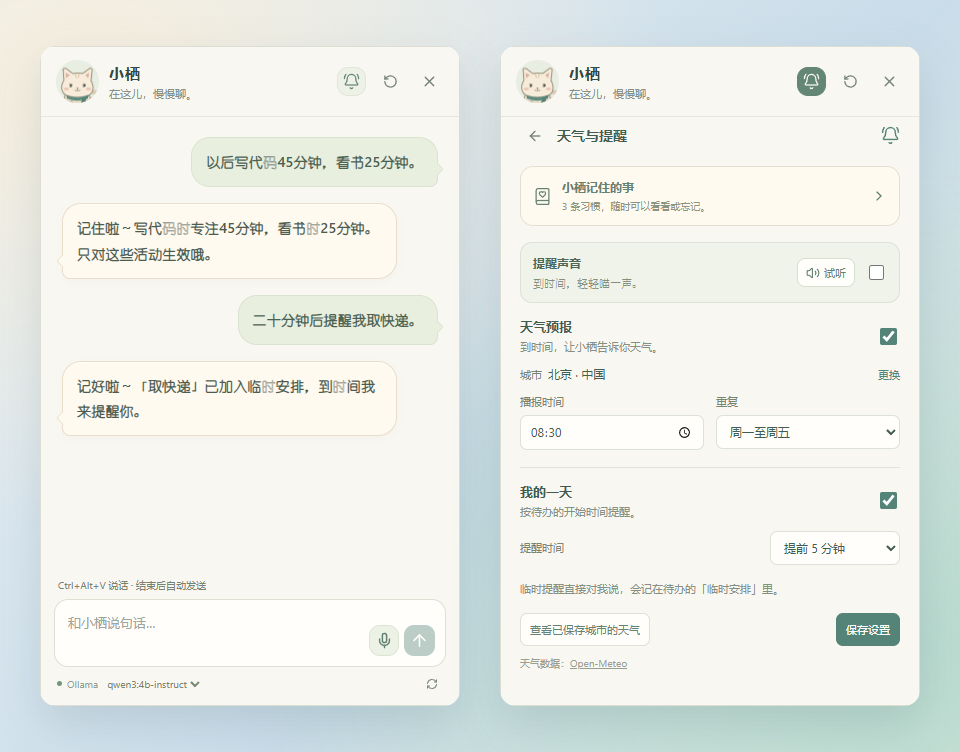
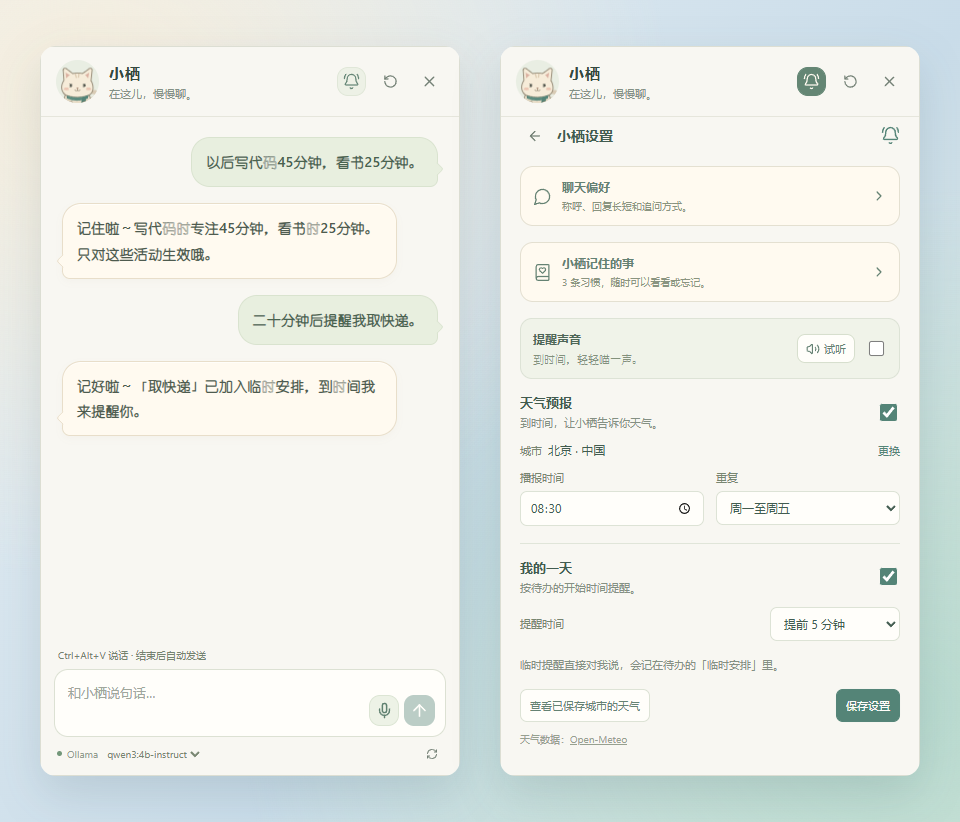
feat: add chat preference settings and release v1.1.1

diff --git a/desktop-pet/chat-preferences.tsx b/desktop-pet/chat-preferences.tsx
@@ -1,0 +1,46 @@
+import { useState } from 'react'
+import { ArrowLeft, ChevronRight, MessageCircle } from 'lucide-react'
+import type { ChatPreferences } from './types'
+
+const defaults: ChatPreferences = { preferredName: null, replyLength: 'normal', followUp: 'natural' }
+
+export function ChatPreferencePanel({ preferences = defaults, onBack }: { preferences?: ChatPreferences; onBack: () => void }) {
+  const [changes, setChanges] = useState<Partial<ChatPreferences>>({})
+  const [busy, setBusy] = useState(false)
+  const [feedback, setFeedback] = useState('')
+  // Untouched fields follow live changes from conversation; only edited fields are saved.
+  const values = { ...preferences, ...changes }
+  const change = <K extends keyof ChatPreferences>(key: K, value: ChatPreferences[K]) => {
+    setChanges(current => ({ ...current, [key]: value }))
+    setFeedback('')
+  }
+  const save = async () => {
+    if (!window.petAPI || busy || !Object.keys(changes).length) return
+    setBusy(true); setFeedback('')
+    try {
+      await window.petAPI.saveChatPreferences(changes)
+      setChanges({}); setFeedback('保存好啦，下次回复就按这些偏好来。')
+    } catch (error) {
+      setFeedback(error instanceof Error ? error.message.replace(/^Error invoking remote method '[^']+': (?:Error: )?/, '') : '偏好没有保存，请再试一次。')
+    } finally { setBusy(false) }
+  }
+  return <section className="reminder-settings chat-preferences" aria-label="聊天偏好设置">
+    <div className="reminder-settings-heading"><button className="icon-button" aria-label="返回设置" onClick={onBack}><ArrowLeft size={16} /></button><strong>聊天偏好</strong><MessageCircle size={19} strokeWidth={1.8} /></div>
+    <p className="memory-intro">保存后，下次回复就按你的习惯来。</p>
+    <form onSubmit={event => { event.preventDefault(); void save() }}>
+      <fieldset disabled={busy}>
+        <label className="reminder-field">用户称呼<input aria-label="用户称呼" aria-describedby="pet-name-hint" value={values.preferredName ?? ''} maxLength={24} placeholder="小栖怎么称呼你" autoComplete="off" onChange={event => change('preferredName', event.target.value)} /></label>
+        <small id="pet-name-hint" className="preference-field-hint">最多 24 个字符，留空表示不特意称呼。</small>
+        <label className="reminder-field">回复长短<select aria-label="回复长短" value={values.replyLength} onChange={event => change('replyLength', event.target.value as ChatPreferences['replyLength'])}><option value="short">简短 · 直接说重点</option><option value="normal">正常 · 自然聊几句</option><option value="detailed">详细 · 多讲一点</option></select></label>
+        <label className="reminder-field">追问方式<select aria-label="追问方式" value={values.followUp} onChange={event => change('followUp', event.target.value as ChatPreferences['followUp'])}><option value="natural">自然交流 · 可以适当追问</option><option value="avoid">尽量不追问 · 用陈述句接话</option></select></label>
+        <p className="reminder-hint">也能通过聊天修改，以最后一次修改为准。<br />“这次详细一点”只影响当次回复。</p>
+        <div className="reminder-setting-actions"><button type="button" onClick={() => { setChanges(defaults); setFeedback('已填入默认选项，保存后生效。') }}>恢复默认</button><button type="submit" className="reminder-save" disabled={!Object.keys(changes).length}>{busy ? '保存中…' : '保存偏好'}</button></div>
+      </fieldset>
+      {feedback && <p className="reminder-feedback" role="status">{feedback}</p>}
+    </form>
+  </section>
+}
+
+export function ChatPreferenceEntry({ onClick }: { onClick: () => void }) {
+  return <button type="button" className="memory-entry" onClick={onClick}><MessageCircle size={19} strokeWidth={1.6} /><span><strong>聊天偏好</strong><small>称呼、回复长短和追问方式。</small></span><ChevronRight size={16} /></button>
+}

diff --git a/desktop-pet/reminder-settings.tsx b/desktop-pet/reminder-settings.tsx
@@ -1,11 +1,13 @@
 import { useEffect, useRef, useState } from 'react'
 import { ArrowLeft, BellRing, Search, Volume2 } from 'lucide-react'
-import type { PetMemory, PetReminders, WeatherCity } from './types'
+import type { ChatPreferences, PetMemory, PetReminders, WeatherCity } from './types'
 import { createMeowPlayer } from './reminder-sound'
 import { MemoryEntry, MemoryPanel } from './memory-panel'
+import { ChatPreferenceEntry, ChatPreferencePanel } from './chat-preferences'
 
-export function ReminderSettings({ settings, soundEnabled, memory, onClose }: { settings: PetReminders; soundEnabled: boolean; memory?: PetMemory | null; onClose: () => void }) {
+export function ReminderSettings({ settings, soundEnabled, memory, chatPreferences, onClose }: { settings: PetReminders; soundEnabled: boolean; memory?: PetMemory | null; chatPreferences?: ChatPreferences; onClose: () => void }) {
   const [memoryOpen, setMemoryOpen] = useState(false)
+  const [preferencesOpen, setPreferencesOpen] = useState(false)
   const [soundBusy, setSoundBusy] = useState(false)
   const player = useRef<ReturnType<typeof createMeowPlayer> | null>(null)
   useEffect(() => () => { player.current?.stop(); player.current = null }, [])
@@ -53,8 +55,10 @@ export function ReminderSettings({ settings, soundEnabled, memory, onClose }: { 
     finally { setBusy(false) }
   }
   if (memoryOpen && memory) return <MemoryPanel memory={memory} onBack={() => setMemoryOpen(false)} />
-  return <section className="reminder-settings" aria-label="天气与提醒设置">
-    <div className="reminder-settings-heading"><button className="icon-button" aria-label="返回聊天" onClick={onClose}><ArrowLeft size={16} /></button><strong>天气与提醒</strong><BellRing size={19} strokeWidth={1.8} /></div>
+  if (preferencesOpen) return <ChatPreferencePanel preferences={chatPreferences} onBack={() => setPreferencesOpen(false)} />
+  return <section className="reminder-settings" aria-label="小栖设置">
+    <div className="reminder-settings-heading"><button className="icon-button" aria-label="返回聊天" onClick={onClose}><ArrowLeft size={16} /></button><strong>小栖设置</strong><BellRing size={19} strokeWidth={1.8} /></div>
+    <ChatPreferenceEntry onClick={() => setPreferencesOpen(true)} />
     {memory && <MemoryEntry count={memory.habits.length} onClick={() => setMemoryOpen(true)} />}
     <div className="reminder-sound-setting">
       <div><strong>提醒声音</strong><small>到时间，轻轻喵一声。</small></div>

diff --git a/desktop-pet/ui.tsx b/desktop-pet/ui.tsx
@@ -216,11 +216,11 @@ function Chat() {
       <header className="chat-header">
         <div className="chat-avatar"><Mascot mood={['requesting', 'recording'].includes(state.voice?.phase || '') ? 'listening' : reaction?.kind ?? (state.busy ? 'thinking' : 'idle')} meowing={state.meowing} level={state.voice?.level} /></div>
         <div className="chat-heading"><h1>小栖</h1><p>{state.busy ? waitingText : state.focus?.running ? '陪你专注中。' : '在这儿，慢慢聊。'}</p></div>
-        {state.reminders && <button className={`icon-button reminder-entry${settingsOpen ? ' is-active' : ''}`} aria-label="天气与提醒" title="天气与提醒" aria-expanded={settingsOpen} onClick={() => { voiceInput.cancel(); setSettingsOpen(value => !value) }}><BellRing size={17} strokeWidth={1.8} /></button>}
+        {state.reminders && <button className={`icon-button reminder-entry${settingsOpen ? ' is-active' : ''}`} aria-label="小栖设置" title="小栖设置" aria-expanded={settingsOpen} onClick={() => { voiceInput.cancel(); setSettingsOpen(value => !value) }}><BellRing size={17} strokeWidth={1.8} /></button>}
         <button className="icon-button" aria-label="重新聊" title="清空当前对话" onClick={() => void reset()}><RotateCcw size={15} /></button>
         <button className="icon-button" aria-label="收起聊天" title="收起聊天（Esc）" onClick={() => api?.closeChat()}><X size={17} /></button>
       </header>
-      {settingsOpen && state.reminders ? <ReminderSettings settings={state.reminders} memory={state.memory} soundEnabled={state.reminderSoundEnabled !== false} onClose={() => setSettingsOpen(false)} /> : <>
+      {settingsOpen && state.reminders ? <ReminderSettings settings={state.reminders} memory={state.memory} chatPreferences={state.chatPreferences} soundEnabled={state.reminderSoundEnabled !== false} onClose={() => setSettingsOpen(false)} /> : <>
       <div className="chat-history" ref={scroll} role="log" aria-label="聊天记录">
         {state.messages.length === 0 && !state.busy && <div className="chat-empty"><Mascot /><p>小栖在呢，想聊什么呀？</p></div>}
         {state.messages.map((message) => <div key={message.id} className={`chat-message message-${message.role}`}>

diff --git a/desktop-pet/types.ts b/desktop-pet/types.ts
@@ -21,6 +21,7 @@ export interface PetState {
   focusNotice?: { id: string; text: string; expiresAt: number } | null
   reminders?: PetReminders | null
   memory?: PetMemory | null
+  chatPreferences?: ChatPreferences
   voice?: VoiceState
   voiceBubble?: { id: string; phase: VoiceState['phase'] | 'thinking' | 'reply' | 'error'; text?: string; transcript?: string } | null
   meowing?: boolean
@@ -42,6 +43,11 @@ export interface VoiceState {
 }
 
 export interface WeatherCity { id: string; name: string; label: string }
+export interface ChatPreferences {
+  preferredName: string | null
+  replyLength: 'short' | 'normal' | 'detailed'
+  followUp: 'avoid' | 'natural'
+}
 export interface PetMemoryEntry {
   id: string
   label: string
@@ -67,6 +73,7 @@ export interface PetAPI {
   listModels: () => Promise<string[]>
   setModel: (model: string) => Promise<void>
   setReminderSound: (enabled: boolean) => Promise<void>
+  saveChatPreferences: (patch: Partial<ChatPreferences>) => Promise<ChatPreferences>
   send: (text: string) => Promise<void>
   reset: () => Promise<PetState>
   forgetMemories: (ids: string[]) => Promise<PetMemory>

diff --git a/desktop-pet/pet.css b/desktop-pet/pet.css
@@ -191,6 +191,12 @@ button:focus-visible, select:focus-visible { outline: 2px solid #548477; outline
 .memory-entry strong { display: block; font-size: 12px; font-weight: 600; }
 .memory-entry small { display: block; margin-top: 4px; font-size: 10px; color: #8a9480; }
 .memory-entry:hover { background: #f7f1e5; }
+.chat-preferences fieldset { min-width: 0; margin: 0; padding: 0; border: 0; }
+.chat-preferences .reminder-settings-heading { margin-bottom: 8px; }
+.chat-preferences .memory-intro { margin: 0; font-size: 12px; line-height: 1.6; }
+.chat-preferences .reminder-field { margin-top: 12px; }
+.chat-preferences .reminder-hint { margin: 12px 0; }
+.preference-field-hint { display: block; margin-top: 6px; color: #859084; font-size: 10px; line-height: 1.6; }
 .memory-intro { margin: 0 0 18px; font: 13px var(--pet-speech-font); color: #7a8775; line-height: 1.8; }
 .memory-tabs { display: flex; gap: 6px; margin-bottom: 15px; padding: 4px; background: #edf0e6; border-radius: 12px; }
 .memory-tabs button { flex: 1; padding: 8px; border: 0; border-radius: 9px; background: transparent; color: #7e8e7d; font-size: 12px; }

diff --git a/desktop-pet/README.md b/desktop-pet/README.md
@@ -16,6 +16,8 @@
 
 普通聊天在确认 `none` 决策后流式显示正文；工具轮隐藏模型草稿，等操作结束后显示真实结果。用户可以直接在待办组件里修改时间，小栖下一次操作仍会重新检查。
 
+并非所有自然语言设置都经过 LLM。`memory.cjs` 用规则直接识别明确的称呼、回复长短和追问偏好；较间接的表达由后台模型提取候选，核对原话与适用范围后，再做一次模型审核。`focus-tools.cjs`、`reminder-tools.cjs` 也先用规则筛选本轮可用动作。规则能覆盖的说法有限，模型也可能漏掉或误解偏好，用户可以在设置里查看和纠正。
+
 ## 运行层管什么
 
 - **工具范围。** 根据用户请求与当前状态开放有限工具。引用、翻译材料和能力询问不会因为包含命令字样就得到写入权限；不支持的未来开钟请求不能提前启动计时。
@@ -28,7 +30,7 @@
 
 ## 天气、待办与番茄钟
 
-点击聊天标题栏的小铃铛进入“天气与提醒”。天气默认不启用，可手动搜索城市、选择每天或周一至周五、设置播报时间。也可以说“播报改成九点”“周末不用报天气”。手动设置不依赖 Ollama，查询使用 [Open-Meteo](https://open-meteo.com/)，结果保留日期、温度和来源。
+点击聊天标题栏的小铃铛进入“小栖设置”。天气默认不启用，可手动搜索城市、选择每天或周一至周五、设置播报时间。也可以说“播报改成九点”“周末不用报天气”。手动设置不依赖 Ollama，查询使用 [Open-Meteo](https://open-meteo.com/)，结果保留日期、温度和来源。
 
 “我的一天”只检查当天未完成事项，默认提前 5 分钟，可改为开始时或提前 10/15 分钟。临时提醒写入“临时安排”；普通临时事项只有开始/结束时间时，不会自动生成提醒。取消提醒保留待办本身。
 
@@ -72,6 +74,16 @@ Ctrl+Alt+V 开始或结束录音，识别后自动发送。桌面模式保持聊
 
 小铃铛 →“小栖记住的事”可查看活动习惯、最近操作和来源原话，支持逐条忘记。删除记忆不撤销实际操作。原有称呼、回复长度和追问偏好保留为独立的低优先级聊天记忆，临时要求只作用于当轮。
 
+小铃铛 →“聊天偏好”可直接编辑用户称呼、回复长短和追问方式，保存后从下一条回复生效；Ollama 未连接时也能设置。称呼留空表示不特意称呼。也可以说“以后叫我小李，回答短一点，别总追问我”，两种入口修改同一份偏好，以最后一次明确修改为准。“这次详细一点”不更改保存的默认值。“恢复默认”先填入默认选项，点击“保存偏好”后生效。
+
+手动修改只提交编辑过的字段，不向聊天记录插入模拟消息；来源标记为 `settings`，与用户消息共用递增的来源顺序。保存失败保留原偏好与输入，保存成功取消旧的后台提取；以后重新检查旧消息时，也不能覆盖来源更晚的手动设置。正在生成的回复继续使用原上下文。
+
+## 当前技术选择
+
+- **暂时用不上多步执行。** 设提醒、查天气、开番茄钟，一次工具操作就能完成。没说完整的时间可以下一轮补上，到点之后由程序提醒。这些事情还不需要模型拿到工具结果，再决定下一步去调用什么。
+- **记忆继续存 JSON。** 活动习惯最多 24 条，操作记录保留近 30 天内最多 40 条，聊天历史也有上限。主进程统一管理，工作区修改排队保存，业务变更和操作记录可以一起写入。这个规模下还用不上数据库索引；以后需要搜索大量历史、做复杂查询，或保存可恢复的长任务时，再考虑 SQLite。换个存储格式不会让小栖更懂一句话。
+- **工具继续用结构化 JSON 分派。** Ollama 按 JSON Schema 提议动作，程序校验后调用对应函数，最后显示真实回执。当前工具固定，也只接了 Ollama，迁移原生 `tool_calls` 暂时带不来明显收益。以后对接其他模型服务或连续调用工具时再评估，参数来源、权限和状态检查仍然要保留。
+
 ## 数据与生命周期
 
 正式版使用程序旁的 `data`：
@@ -86,6 +98,8 @@ Ctrl+Alt+V 开始或结束录音，识别后自动发送。桌面模式保持聊
 控制中心、托盘与桌宠右键菜单共享同一个开关。关闭会取消请求、停止桌宠调度、销毁窗口、移除 IPC 和快捷键，并卸载预热的聊天模型。收起聊天只隐藏窗口，回复可继续；“重新聊”清除近期聊天与待补全任务，保留已保存习惯和真实业务状态。
 
 ## 开发与验证
+
+`npm run test:pet-chat-preferences` 使用隔离数据验证聊天偏好的离线设置、自然语言同步、局部保存、保存失败、重启及真实界面布局。
 
 ```powershell
 npm run dev:pet

diff --git a/README.md b/README.md
@@ -78,7 +78,7 @@
 
 “二十分钟后提醒我取快递”会写进待办的“临时安排”。接着说“还是改成半小时吧”，修改的就是刚才那条提醒。
 
-点击聊天窗口的小铃铛，可以设置天气城市、播报时间、“我的一天”提前多久提醒，以及是否带一声短短的“喵”。这些设置也能用自然语言修改。
+点击聊天窗口的小铃铛，打开“小栖设置”，可以调整天气城市、播报时间、“我的一天”提前多久提醒，以及是否带一声短短的“喵”。天气播报也能直接用一句话修改。
 
 ![小栖聊天与天气提醒设置](docs/screenshots/pet-chat.png)
 
@@ -99,6 +99,16 @@
 ![记忆管理：活动习惯、原话来源与最近操作](docs/screenshots/pet-memory.png)
 
 尚未说完整的提醒也能接着补充：“提醒我取快递” → “二十分钟后”。这类临时上下文保留 30 分钟，重新聊或重启后清除，已经保存的提醒仍以待办时间为准。
+
+### 按你喜欢的方式聊天
+
+不喜欢回复太长，或者不想每句话后面都跟着一个问题？可以直接告诉小栖：“以后叫我小李，回答短一点，不要追问我。”
+
+也可以点 **小铃铛 → 聊天偏好**，自己修改用户称呼、回复长短和追问方式。两种入口改的是同一份偏好，以最后一次明确修改为准；手动设置不用启动 Ollama，保存后从下一条回复生效。称呼留空，就不会特意叫你的名字。
+
+![聊天偏好：设置称呼、回复长短和追问方式](docs/screenshots/pet-preferences.png)
+
+偶尔想多听一点，说“这次详细一点”就好，不会把平时的偏好一起改掉。想重新设置，可以点“恢复默认”，再点“保存偏好”。
 
 <details>
 <summary><strong>再试试这些说法</strong></summary>
@@ -162,6 +172,7 @@ npm run dev
 | `npm run dev:pet` | 单独预览小栖，使用隔离工作区 |
 | `npm run build` | 类型检查与前端构建 |
 | `npm run package:portable` | 生成 Windows 便携 ZIP |
+| `npm run test:pet-chat-preferences` | 聊天偏好的保存、对话同步与界面检查 |
 | `node --test desktop-pet/tests/*.test.cjs` | 桌宠自动化检查 |
 | `npm run test:portable-data` | 数据目录与迁移检查 |
 
@@ -186,7 +197,9 @@ npm run test:pomodoro-flip
 
 ## 小栖背后的实现
 
-本地 LLM 理解语义，运行层检查工具权限、参数来源和实时状态，保存成功后才给出真实回执。每轮请求都有独立标识，新消息可以打断旧回复，迟到结果不能覆盖新状态。记忆带有原话来源与有效期，操作记录和业务数据一起提交；到点提醒由程序调度，不需要反复询问模型。
+小栖把模型理解和程序规则放在一起用。“以后叫我小李”这类明确的聊天偏好先按规则处理；提醒、天气和番茄钟操作主要由本地 LLM 判断，再交给程序检查参数、计算时间和执行。保存成功后才给出真实回执，到点提醒也由程序负责。
+
+每轮请求都有独立标识，新消息可以打断旧回复，迟到结果不能覆盖新状态。记忆保留原话来源，操作记录和业务数据一起保存。目前这些有数量上限的数据存成 JSON 就够用，还没有引入 SQLite、向量检索或自主多步执行；具体取舍写在[桌宠实现说明](desktop-pet/README.md#当前技术选择)里。
 
 [桌宠实现说明](desktop-pet/README.md) · [任务记忆设计](desktop-pet/TASK_MEMORY.md) · [截图制作说明](docs/screenshots/README.md)
 

diff --git a/docs/releases/v1.1.1.md b/docs/releases/v1.1.1.md
@@ -1,0 +1,17 @@
+这次给小栖加了一个聊天偏好窗口。想让它怎么称呼你、回复长一点还是短一点、要不要接着追问，现在都能自己改。
+
+点聊天窗口的小铃铛，进入 **聊天偏好**，修改后点“保存偏好”，下一条回复就会用上。这个窗口不用启动 Ollama 也能设置。
+
+直接说也可以，比如“以后叫我小李，回答短一点，不要追问我”。聊天和设置窗口改的是同一份偏好，以最后一次明确修改为准；“这次详细一点”只影响这一轮。旧对话的后台记忆整理不会把刚改好的设置覆盖回去。
+
+另外补上了 README 的入口说明和界面截图，也把小栖现在怎么识别意图、为什么继续用 JSON 存记忆、暂时用不上多步执行这些选择写清楚了。没有新增模型服务或数据库依赖。
+
+下载 `eDesktop-1.1.1-windows-x64.zip`，完整解压后运行里面的 `eDesktop.exe`，请保留整个程序文件夹。支持 Windows 10/11 x64。
+
+从旧版更新前，先从托盘正常退出，替换程序文件时 **保留自己的 `data` 文件夹**，里面有设置、待办、聊天和离线语音模型。便携包不包含个人数据，附带 `.sha256` 校验文件。
+
+ZIP 的 SHA-256：
+
+```text
[1 lines of base64/hex data omitted]
+```

diff --git a/docs/screenshots/README.md b/docs/screenshots/README.md
@@ -12,6 +12,7 @@
 | `pet-chat.png` | 小栖聊天、天气与待办提醒设置 |
 | `pet-voice.png` | 语音输入状态与桌面气泡回复 |
 | `pet-memory.png` | 已保存的习惯、原话来源和最近操作 |
+| `pet-preferences.png` | 聊天偏好的称呼、回复长短和追问方式 |
 
 ## 重新生成
 
@@ -24,7 +25,7 @@ npx electron scripts/capture-readme.cjs
 
 脚本使用独立的 Electron 进程，加载构建后的界面和专用演示接口。它不会启动正式应用的后台，也不会读取真实桌面、个人工作区或聊天记录；网络请求与麦克风权限均关闭。无需退出正在使用的 eDesktop。
 
-最终图片写入本目录；临时文件、演示样本和尺寸清单写入被 Git 忽略的 `.artifacts/readme-capture/`。脚本会覆盖本目录中列出的八张图片。
+最终图片写入本目录；临时文件、演示样本和尺寸清单写入被 Git 忽略的 `.artifacts/readme-capture/`。脚本会覆盖本目录中列出的九张图片。
 
 为便于在 README 中查看，多窗口界面组合在同一张图片里，使用统一的渐变背景和留白。语音图上方的两行说明是图片标注，其余界面内容来自实际渲染。截图固定动画帧、隐藏输入光标；系统字体和文件图标仍可能随 Windows 环境略有不同。
 
